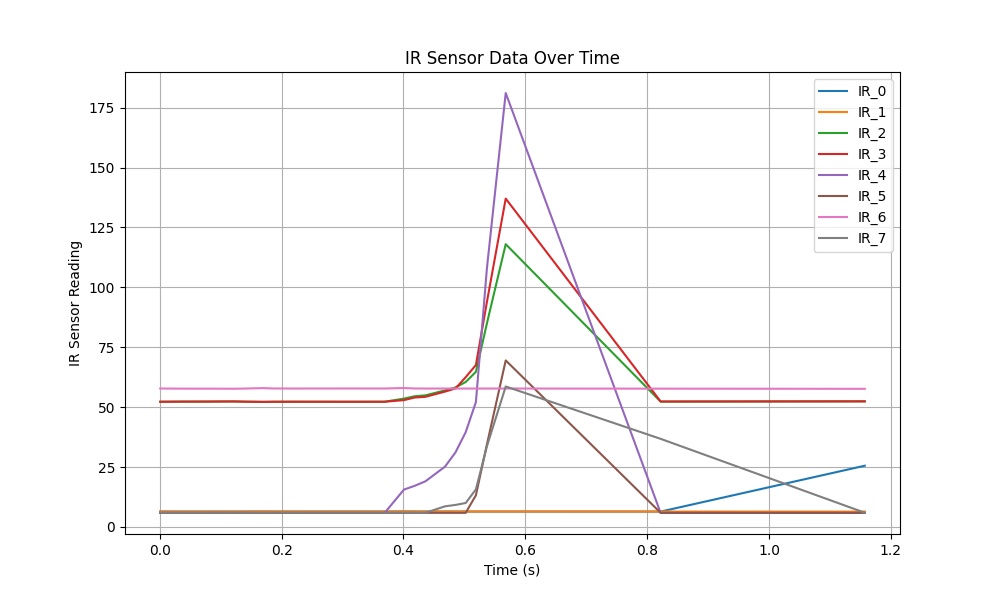
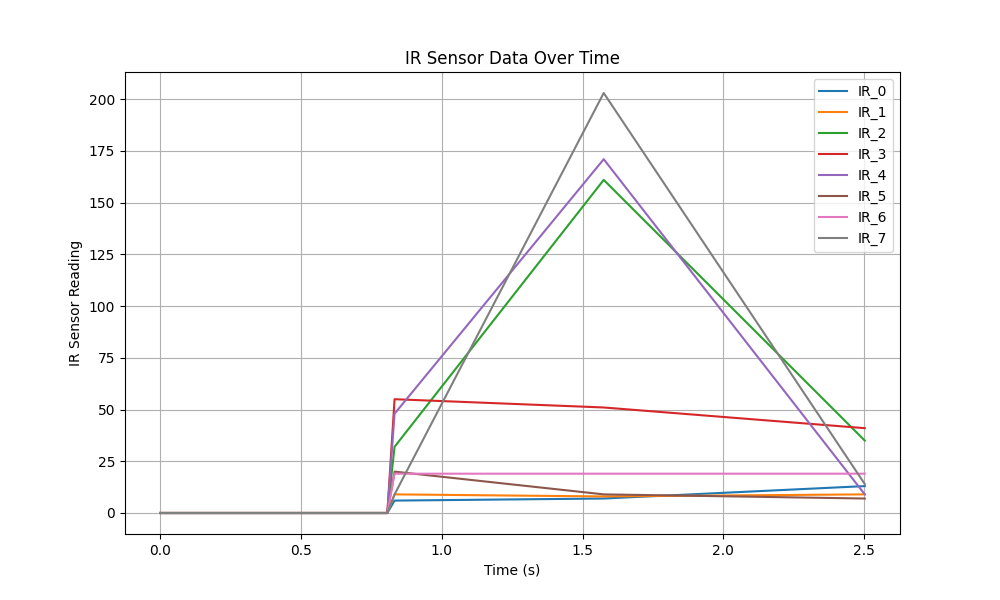
had to change some settings on robo

diff --git a/catkin_ws/src/learning_machines/src/learning_machines/test_actions.py b/catkin_ws/src/learning_machines/src/learning_machines/test_actions.py
@@ -38,19 +38,22 @@ def test_move_and_wheel_reset(rob):
         ir_data.append([current_time] + ir_values)
 
     # Find wall and turn to side
+    x = 0
     if demo:
-        while rob.read_irs()[4] < 90:
+        while rob.read_irs()[4] < 20 and x < 100:
             record_ir_data()
+            x+=1
             rob.move(100, 100, 100)
         record_ir_data()
-        rob.move_blocking(0, -100, 700)
+        rob.move_blocking(0, -100, 800)
         record_ir_data()
         rob.move_blocking(100, 100, 1000)
         record_ir_data()
     else:
         # Touch wall and back off
-        while rob.read_irs()[4] < 200:
+        while rob.read_irs()[4] < 200 and x < 100:
             record_ir_data()
+            x+=1
             rob.move(100, 100, 100)
         record_ir_data()
         rob.move_blocking(-100, -100, 1000)
